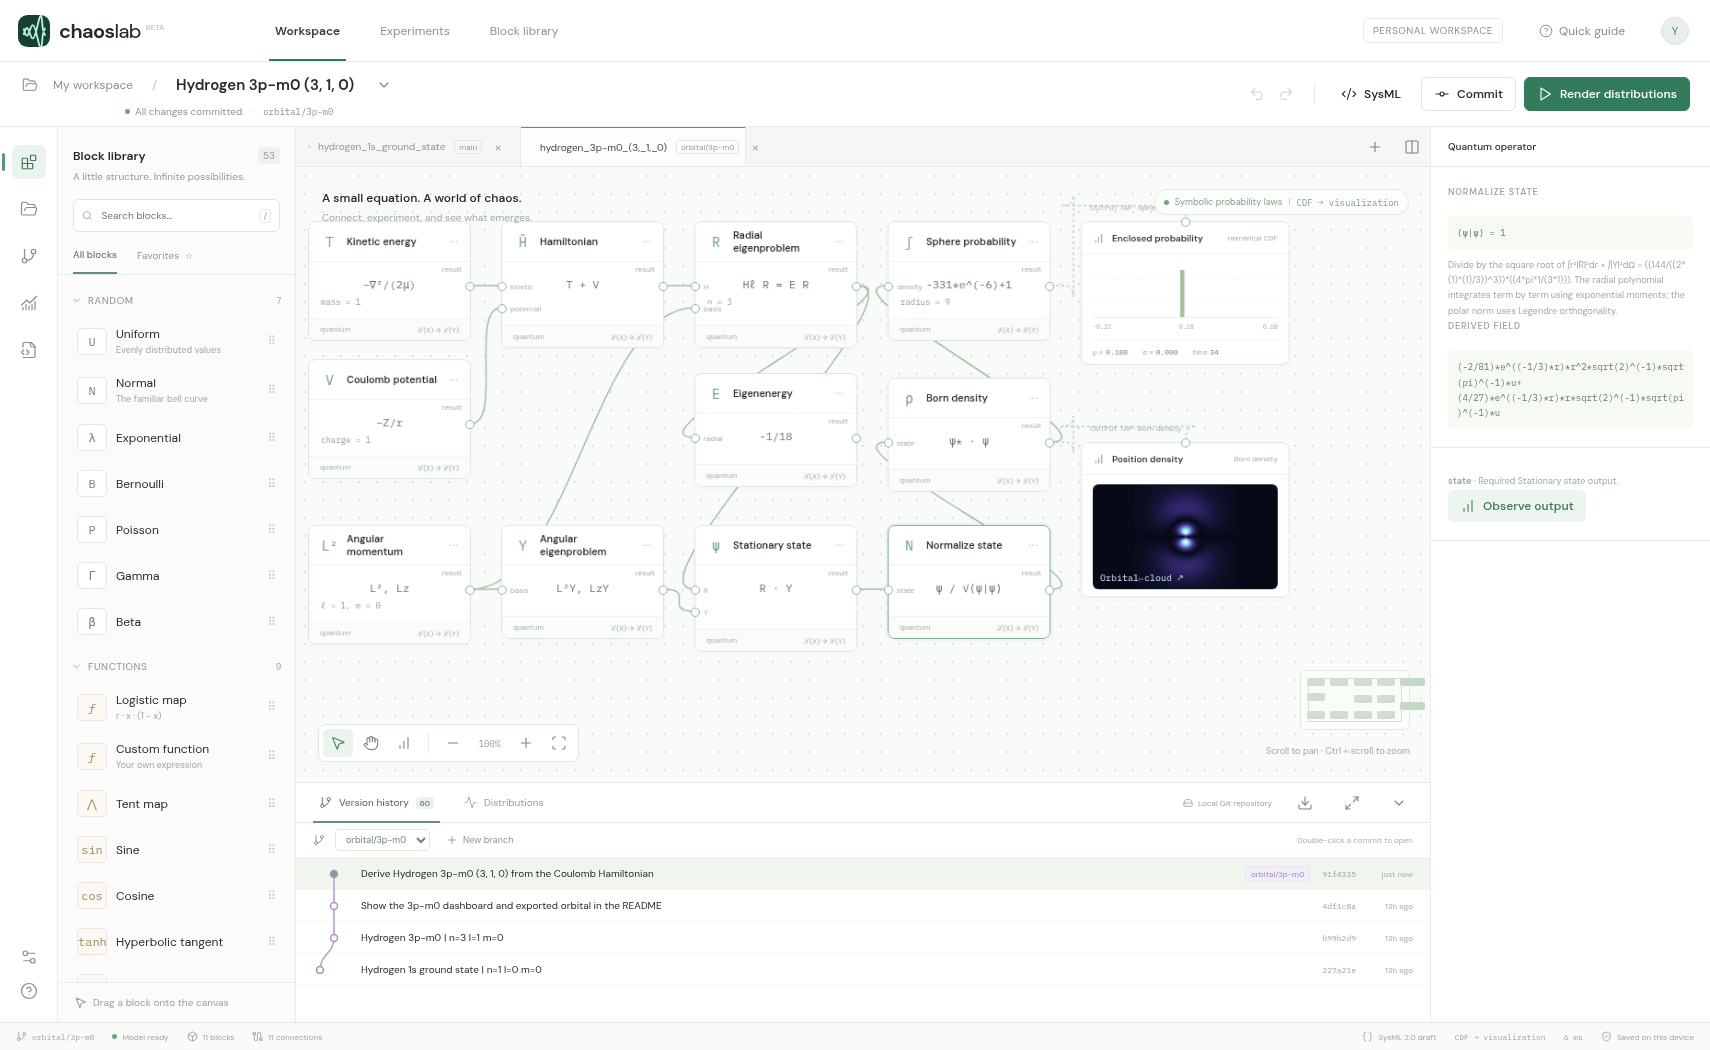
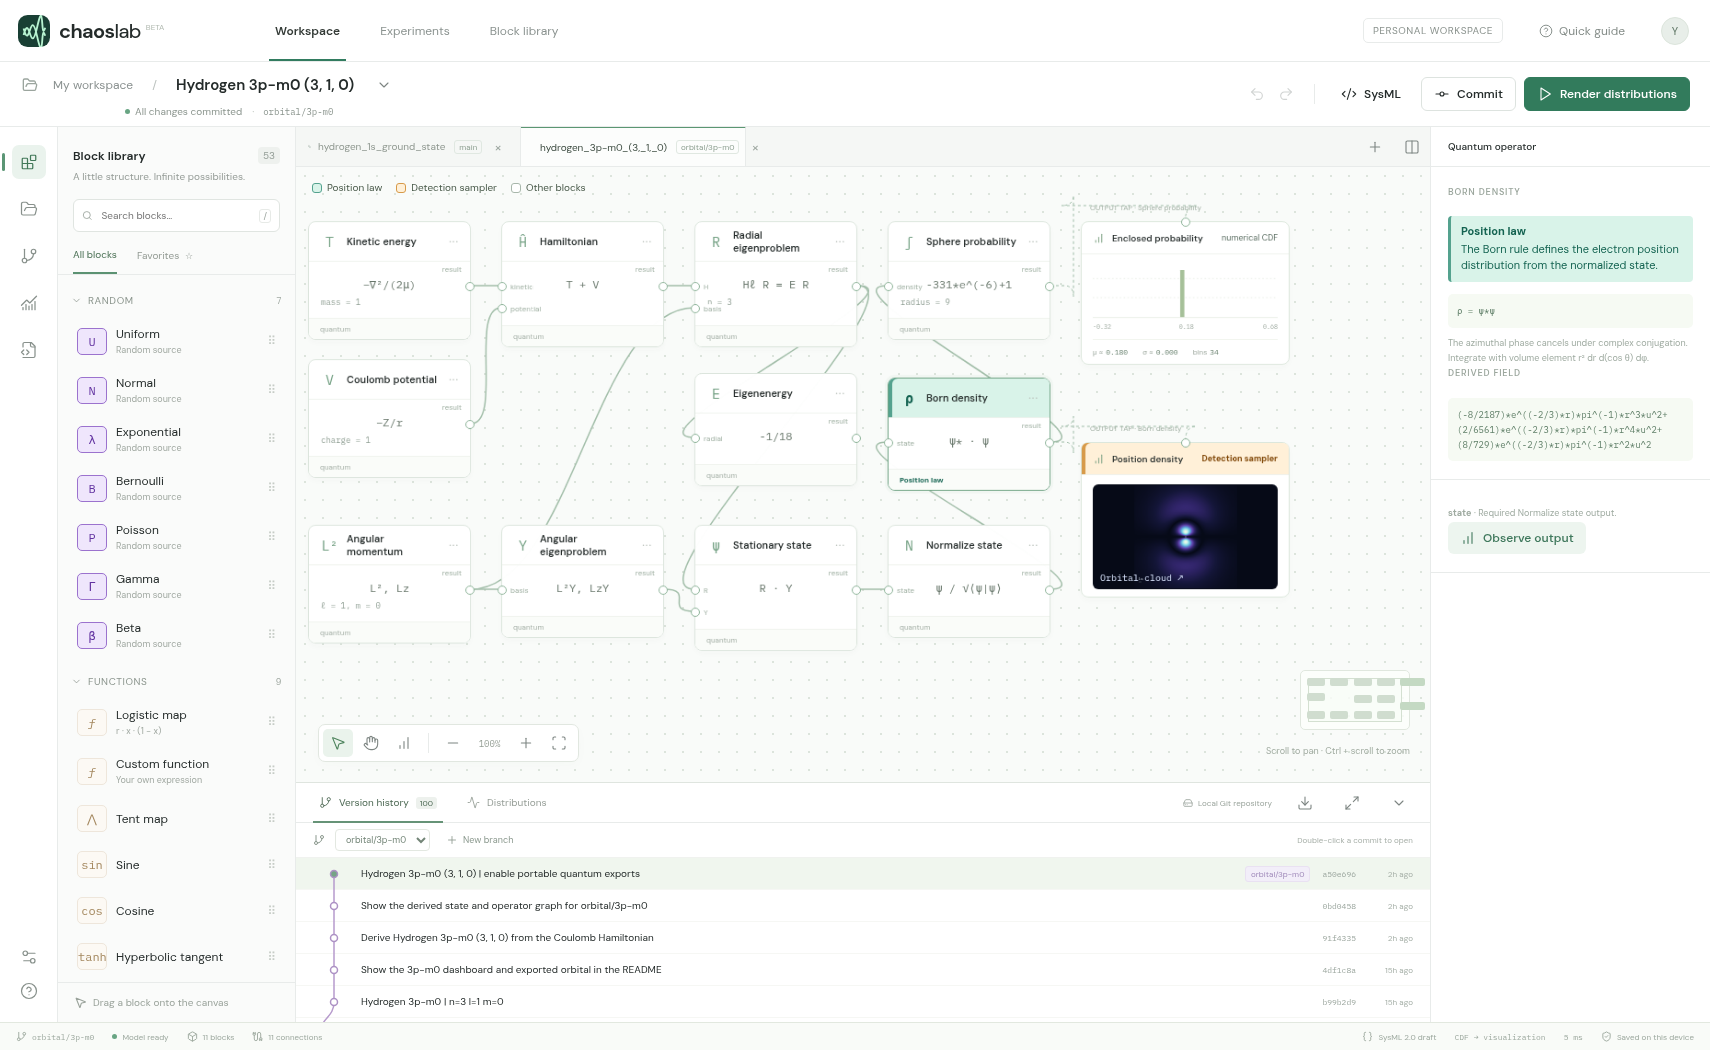
Hydrogen 3p-m0 (3, 1, 0) | identify the position law and detection sampler

diff --git a/studio.py b/studio.py
@@ -10,7 +10,7 @@ import tempfile
 import webbrowser
 
 ROOT = Path(__file__).resolve().parent
-STUDIO_REV = "1cc30c5632f1fe1f79a11ab6730f82c36a6c01e4"
+STUDIO_REV = "8657d6ecd3aa33a5a28f43219d5d6bfb8aa3edcc"
 STUDIO_REPO = "https://github.com/wa200508/chaos_lab.git"
 
 

diff --git a/README.md b/README.md
@@ -6,6 +6,8 @@ Open **Version history** in Chaos Lab to explore the 20 hydrogen designs in this
 
 The connected Hamiltonian and eigenstate solvers give $E=-1/18$ Hartree for this state.
 
+On the canvas, teal **Position law** marks where the Born rule defines the distribution of electron positions. Amber **Detection sampler** marks the tap that draws positions for the projected cloud. The central slice evaluates the density directly.
+
 ![Chaos Lab dashboard with the 3p model, m = 0, open in version history](dashboard.png)
 
 Radial nodes: 1. Polar nodes: 1. Plot half-width: 18 Bohr radii.
